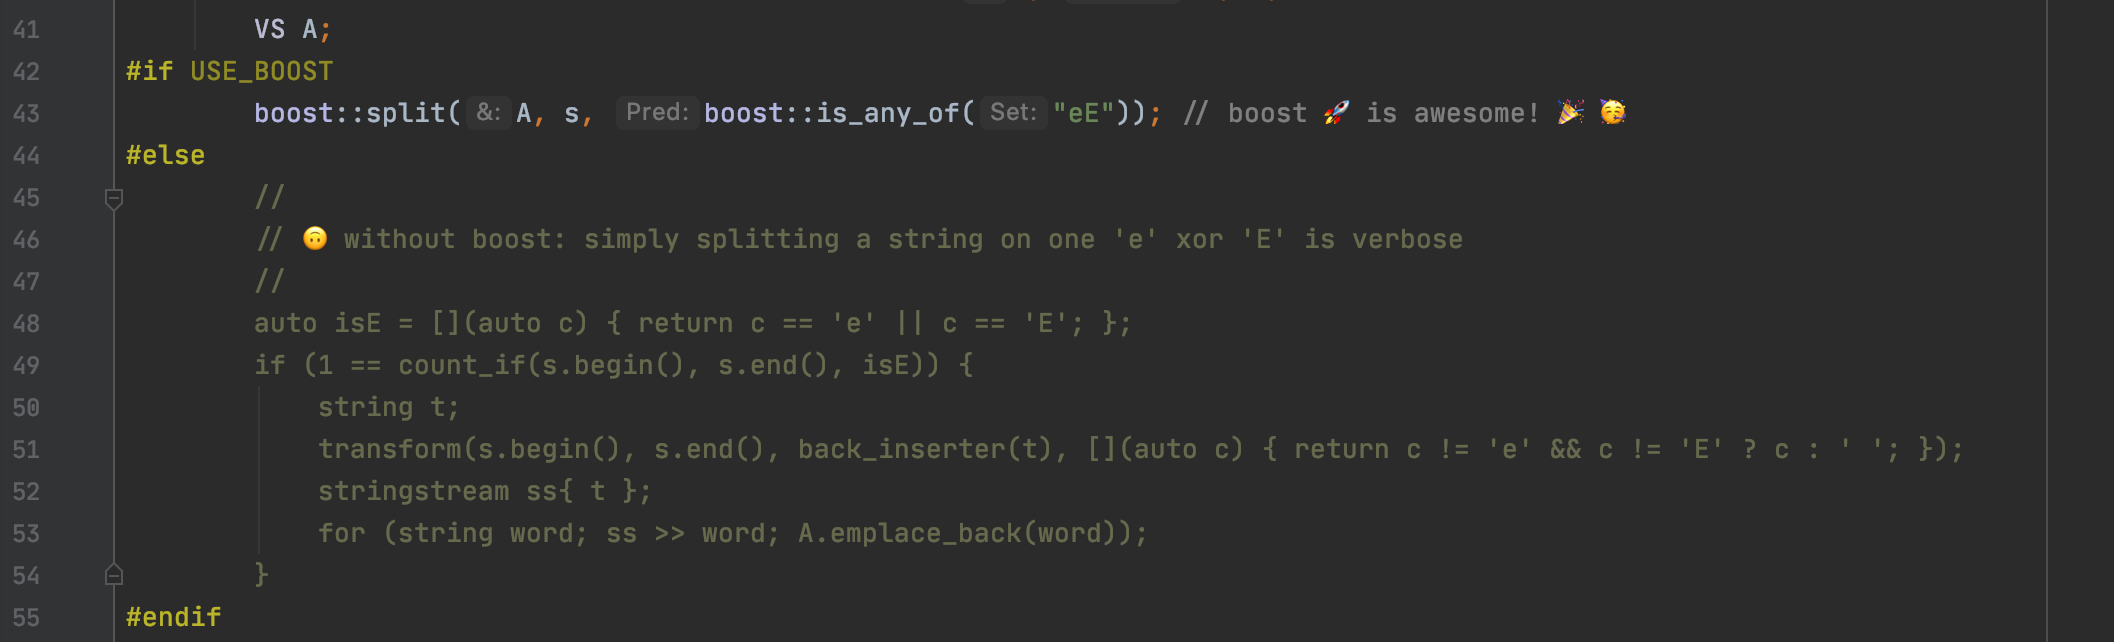
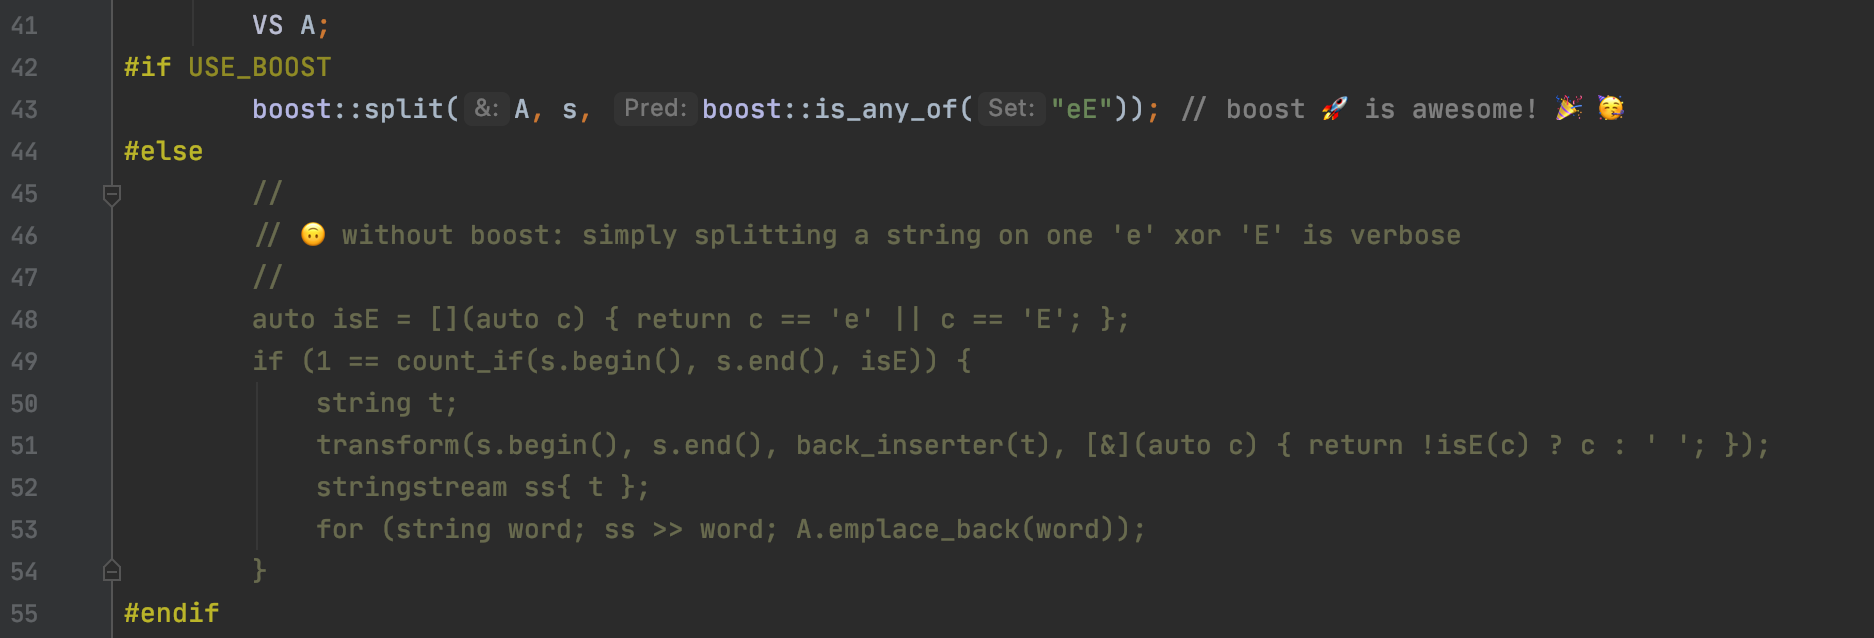
minor edits: make STL code more concise via isE() lambda and update awesome image (boost is still more awesome)

diff --git a/main.cpp b/main.cpp
@@ -48,7 +48,7 @@ public:
         auto isE = [](auto c) { return c == 'e' || c == 'E'; };
         if (1 == count_if(s.begin(), s.end(), isE)) {
             string t;
-            transform(s.begin(), s.end(), back_inserter(t), [](auto c) { return c != 'e' && c != 'E' ? c : ' '; });
+            transform(s.begin(), s.end(), back_inserter(t), [&](auto c) { return !isE(c) ? c : ' '; });
             stringstream ss{ t };
             for (string word; ss >> word; A.emplace_back(word));
         }
@@ -61,7 +61,7 @@ public:
 
 int main() {
     Solution solution;
-    VS A{ "2", "0089", "-0.1", "+3.14", "4.", "-.9", "2e10", "-90E3", "3e+7", "+6e-1", "53.5e93", "-123.456e789", "x" },
+    VS A{ "2", "0089", "-0.1", "+3.14", "4.", "-.9", "2e10", "-90E3", "3e+7", "+6e-1", "53.5e93", "-123.456e789" },
        B{ "abc", "1a", "1e", "e3", "99e2.5", "--6", "-+3", "95a54e53", "e.7e5" };
     for (auto& s: A) assert( solution.isNumber(s));
     for (auto& s: B) assert(!solution.isNumber(s));
